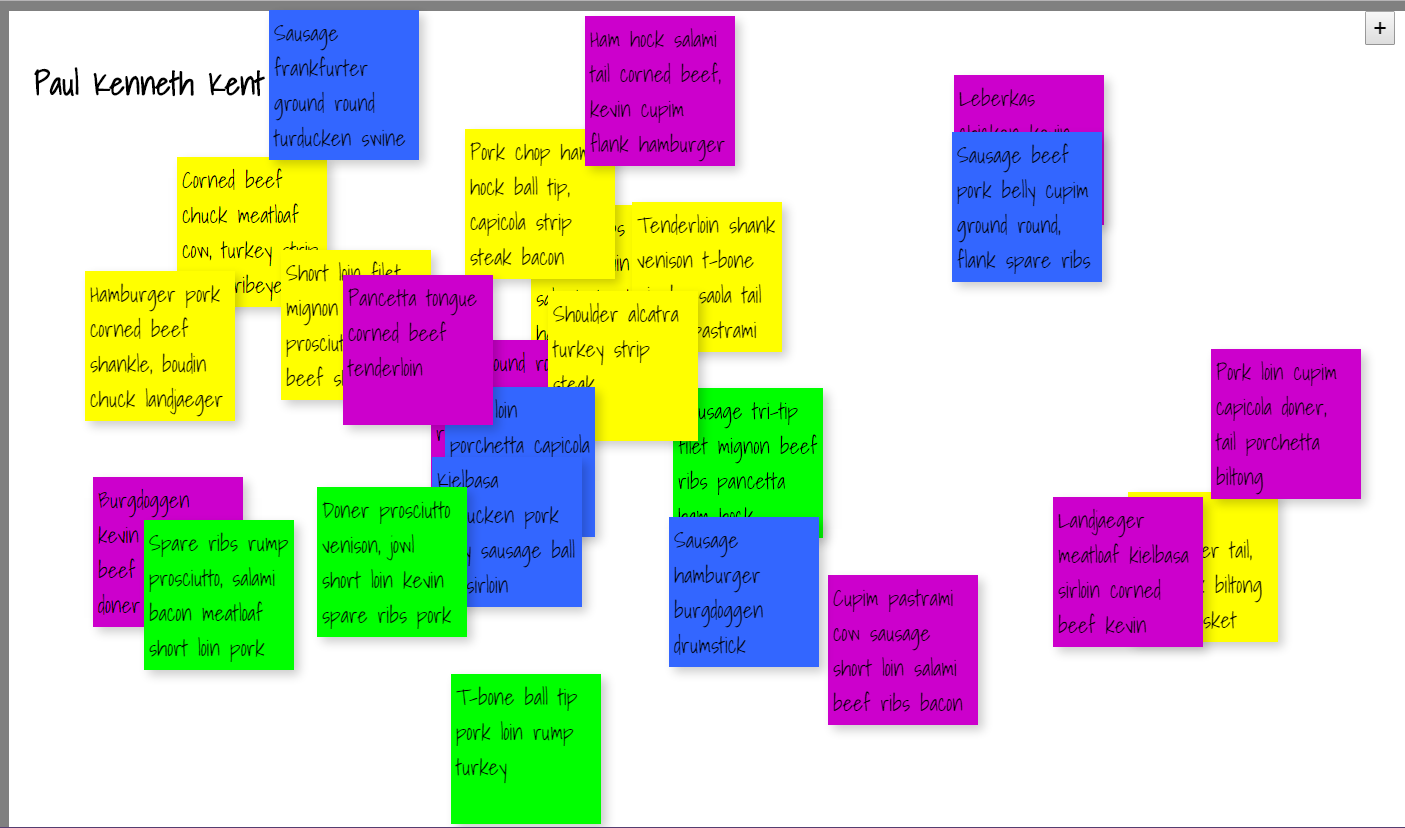
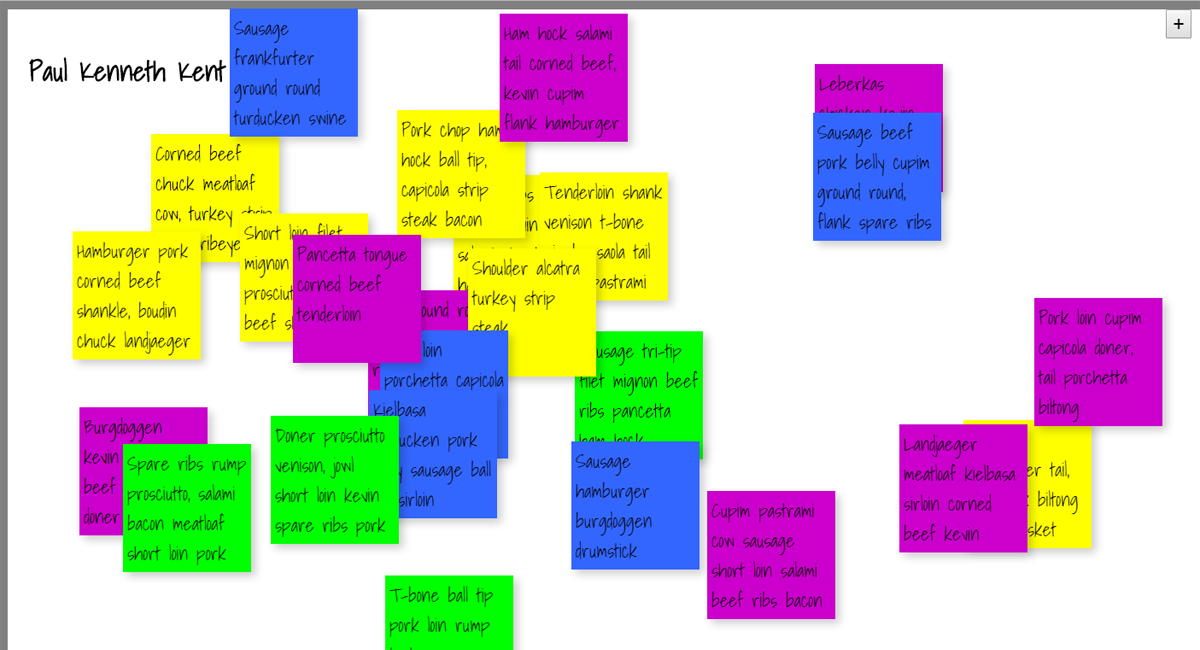
updated some of the content

diff --git a/_layouts/post.html b/_layouts/post.html
@@ -23,7 +23,7 @@ layout: default
 {% endfor %}
 </ol>
 <article class="post" itemscope itemtype="http://schema.org/BlogPosting">
-    <div class="date-title"><h1 class="post-title" itemprop="name headline">{{ page.title }} </h1></div>
+    <div class="date-title"><h2 class="post-title" itemprop="name headline">{{ page.title }} </h2></div>
     <p class="post-meta"><time datetime="{{ page.date | date_to_xmlschema }}" itemprop="datePublished">{{ page.date | date: "%b %-d, %Y" }}</time></p>
 
   <div class="post-content" itemprop="articleBody">

diff --git a/_sass/_media.scss b/_sass/_media.scss
@@ -79,7 +79,7 @@ main {
 }
 
 .post-content {
-    margin: 1em 0 0;
+    margin: 0 0 0;
 
     img {
         height: 30%;

diff --git a/_posts/2016-06-23-what-drives-me.md b/_posts/2016-06-23-what-drives-me.md
@@ -7,12 +7,12 @@ excerpt_separator: <!-- more -->
 tags: [duolingo, web design, blogging, lynda, jekyll]
 ---
 
-In the past when learning to code i've been an all or nothing kind of guy, where some weeks I would work solidly for 14 hours and others I would just do nothing.  <!-- more --> Weeks or even months would pass and then the dread of not doing anything would set in. It was a really ineffective and depressing way of learning. It's not that I didn't want to learn, I was just not seeing the results I was expecting, which was stupid. The problem for me was that some people made it all look so easy on the surface. Let me tell you, it's not! Yes some people might be better than others but really what they should tell you when you first start is that you have to put the hours in, through the good and bad times. It's been about 2 year since I've worked like that and I never want to go back to that routine.
+In the past when learning to code i've been an all or nothing kind of guy, where some weeks I would work solidly for 14 hours and others I would just do nothing.  <!-- more --> Weeks or even months would pass and then the dread of not doing anything would set in. It was a really ineffective and depressing way of learning. It's not that I didn't want to learn, I was just not seeing the results I was expecting. The problem for me was that some people made it all look so easy on the surface. Let me tell you, it's not! Yes some people might be better than others but what they really should tell you when you first start is that you have to put the hours in, through the good and bad times. It's been about 2 years since I've worked like that and I never want to go back to that routine.
 
 >Decide in your heart of hearts what really excites and challenges you, and start moving your life in that direction. Every decision you make, from what you eat to what you do with your tonight, turns you into who you are tomorrow, and the day after that. Look at who you want to be, and start sculpting yourself into that person. You may not get exactly where you thought you'd be, but you will be doing things that suit you in a profession you believe in. Don't let life randomly kick you into the adult you don't want to become.
 ><cite>&mdash; Chris Hadfield</cite>
 
- After so many stop starts I decided to look into a new way of learning. I found that the only way that I seem to work to my full potential is by creating a *reward system* for myself, inspired by how most platforms now use some kind of gamification to retain users.  My day generally consists of a few of these activities.
+ After so many stops and starts I decided to look into a new way of learning. I found that the only way that I seem to work to my full potential is by creating a *reward system* for myself, inspired by how most platforms now use some kind of gamification to retain users.  My day generally consists of a few of these activities.
 
 * Running
 * GYM
@@ -23,9 +23,9 @@ In the past when learning to code i've been an all or nothing kind of guy, where
 * Gaming
 * Netflix
 
-Yes I am one of those odd people who treats exercise as a reward, I think maybe it's just a good release for me these days? More recently i've been noticing that even the "working" parts of my day are becoming more enjoyable and rewarding in their own right. Maybe it is like when you first start going to the gym or running - horrible at first but then it just becomes an enjoyable part of your daily routine. Nothing frees your mind and relaxes you more when you feel like you've earned it. I feel like I work and relax to my full potential now.
+Yes I am one of those odd people who treats exercise as a reward, I think maybe it's just a good release for me these days. More recently i've been noticing that even the "working" parts of my day are becoming more enjoyable and rewarding in their own right. Maybe it is like when you first start going to the gym or running - horrible at first but then it just becomes an enjoyable part of your daily routine. Nothing frees your mind and relaxes you more when you feel like you've earned it. I feel like I work and relax to my full potential now.
 
-Another aspect of this type of work is the challenge of it all. It's like a never ending RPG where you feel like you are constantly upgrading yourself with new skills. With all this new knowledge my random ideas and concepts that I imagine can now start to become realistic projects that I can build myself... Well that's my hope for the future anyways.   
+Another aspect of this work I like is the challenge. It's like a never ending RPG where you feel like you are constantly upgrading yourself with new skills. With all this new knowledge my random ideas and concepts that I imagine can now start to become realistic projects that I can build myself... Well that's my hope for the future anyways.   
 
 If you are finding it hard to motivate yourself then I implore you to watch this [tedtalk](https://youtu.be/arj7oStGLkU) it's very funny and and excellent take on procrastination.
 

diff --git a/_posts/2016-09-20-my-react-journey.md b/_posts/2016-09-20-my-react-journey.md
@@ -1,19 +1,19 @@
 ---
 layout: post
 title:  "The start of my React.js journey"
-date:   2016-09-01
+date:   2016-09-20
 categories: work react
 excerpt_separator: <!-- more -->
 tags: [react, web design, work, youtube]
 ---
 
-I've decided to switch my focus away from Ruby and see if I can get my head around [React.js](https://facebook.github.io/react).  I will try and keep to a weekly post cycle and see if can explain what I have learnt along with some useful links and resources i've found on the way.  <!-- more -->
+I've decided to switch my focus away from Ruby and see if I can get my head around [React.js](https://facebook.github.io/react).  I will try and keep to a montly post cycle and see if can explain what I have learnt along with some useful links and resources i've found on the way.  <!-- more -->
 
 My goal at the end of this is to release an app which takes data from the popular sports tracker [Strava](http://www.strava.com "strava.com") using their [API](https://strava.github.io/api). The closer I get to creating the app the more detail I will reveal about the idea.
 
 I haven't learnt enough yet to write a full blog post so i'll just let you know the setup I currently have, the tools I am using and the material I've been suggested to read and watch.
 
-My favourite text editor at the moment is [Atom](https://atom.io) created by the team at [Github](https://github.com/). They have some great packages and themes that let you customise your workspace. Here is my current configuration.
+My favourite text editor at the moment is [Atom](https://atom.io) created by the team at [Github](https://github.com/). They have some great packages and themes that let you customise your workspace. Here is my current Atom configuration.
 
 * [atom-beautify](https://atom.io/packages/atom-beautify) - great way to clean up your code
 * [emmet](https://atom.io/packages/emmet) - great toolkit for web developers, I haven't even scratched the surface of its potential but there is some great [documentation](http://docs.emmet.io/) on it.
@@ -21,6 +21,6 @@ My favourite text editor at the moment is [Atom](https://atom.io) created by the
 * [activate-power-mode](https://atom.io/packages/activate-power-mode) - when you want to feel powerful when coding...
 * [atom-material-ui](https://atom.io/themes/atom-material-ui) and [atom-material-syntax](https://atom.io/themes/atom-material-syntax) the BEST ui and syntax setup.
 
-I've been pointed in the direction of [egghead.io/](https://egghead.io) by my work collegues using React. I have to be honest, I didn't totally connect with the presenter as it quite fast paced but I can see they have some great material on there. I also stumbled across a great youtube channel called [learncode](https://www.youtube.com/channel/UCVTlvUkGslCV_h-nSAId8Sw) and he has a really good [playlist](https://www.youtube.com/playlist?list=PLoYCgNOIyGABj2GQSlDRjgvXtqfDxKm5b) on React that I plan to work my way through first. I will need to brush up on my Javascript theory so I will be reading "The Principles of Object-Oritented Javascript" by Nicholas C.Zakas on my train journeys to work.
+I've been pointed in the direction of [egghead.io/](https://egghead.io) by my work collegues who are currerently using React. I have to be honest, I didn't totally connect with the presenter as it quite fast paced but I can see they have some great material on there. I also stumbled across a great youtube channel called [learncode](https://www.youtube.com/channel/UCVTlvUkGslCV_h-nSAId8Sw) and he has a really good [playlist](https://www.youtube.com/playlist?list=PLoYCgNOIyGABj2GQSlDRjgvXtqfDxKm5b) on React that I plan to work my way through first. I will need to brush up on my Javascript theory so I will be reading "The Principles of Object-Oritented Javascript" by Nicholas C.Zakas on my train journeys to work.
 
 Hopefully by this time next week I will be able to explain some of the things I have learnt.

diff --git a/_projects/2016-05-12-georgi-doig.md b/_projects/2016-05-12-georgi-doig.md
@@ -13,7 +13,7 @@ picture: '/images/georgi-doig.png'
 [http://georgidoig.github.io/portfolio/](http://georgidoig.github.io/portfolio/)
 
 ### Description
-Georgi Doig is an up and coming video producer. She contacted me to see if I could quickly create a portfolio website for her to showcase the work she has done before graduating. We decided the best thing to do was to use my existing jeykll design/build. So we modified the colour scheme and page layout to fit her needs and also created a nice video introduction page.
+Georgi Doig is an up and coming producer. She contacted me to see if I could quickly create a portfolio website for her to showcase the work she has done. We decided the best thing to do was to use my existing jeykll design/build. So we modified the colour schemes and page layout to fit her needs and also created a nice video introduction page.
 
 This is still a work in process and I plan to modify the template over the coming months.  
 

diff --git a/_projects/2016-10-15-first-react.md b/_projects/2016-10-15-first-react.md
@@ -13,7 +13,7 @@ picture: '/images/first-react-app.png'
 [http://www.projectresponsive.com/](http://www.projectresponsive.com/)
 
 ### Description
-I have been playing around with REACT over the past month. I produced my first real "app" after watching a  [lynda.com ](https://www.lynda.com/React-js-tutorials/Learn-React-js-Basics/379264-2.html) course. I've tried to take it a bit further and modify the original corkboard effect into a whiteboard.I also create a function that would randomly generate the colour of the sticky note.
+I have been playing around with REACT over the past month and as a result here is my first "app". It is a whiteboard of sticky notes that pulls in the data from the Bacon Ipsum API https://baconipsum.com/json-api/. It preloads 50 notes with data, these notes are editable, moveable and can be deleted but on reload it will refresh the data and states.
 
 ### Technology
 * REACT
